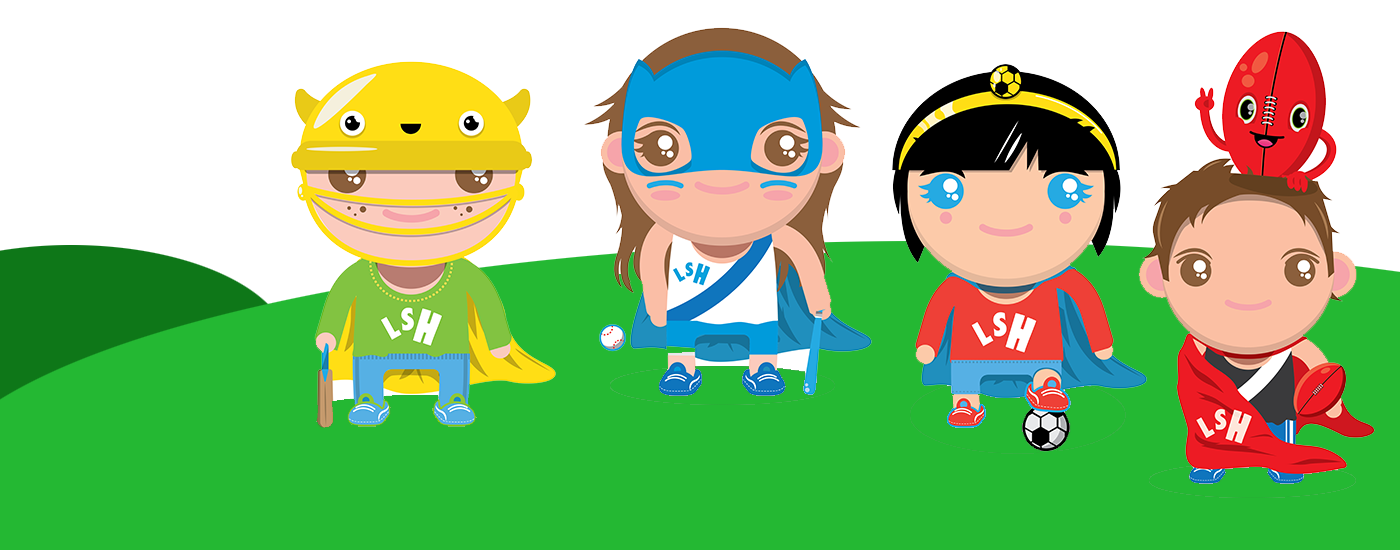
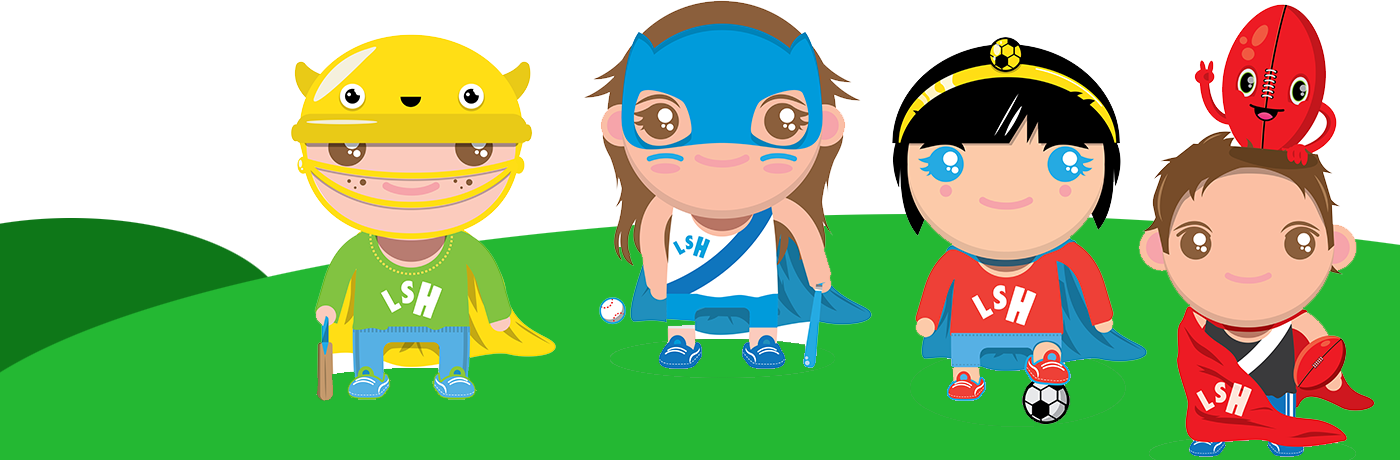
much better homepage design

Changed region(s): [[0.0, 0.0, 1.0, 1.0]]

diff --git a/assets/css/global.css b/assets/css/global.css
@@ -36,12 +36,8 @@ a.contact:hover {
 
 
 #outer {
-    /* Permalink - use to edit and share this gradient: http://colorzilla.com/gradient-editor/#0a3285+0,24c1f4+100 */
-    background: #0a3285; /* Old browsers */
-    background: -moz-linear-gradient(top,  #0a3285 0%, #24c1f4 100%); /* FF3.6-15 */
-    background: -webkit-linear-gradient(top,  #0a3285 0%,#24c1f4 100%); /* Chrome10-25,Safari5.1-6 */
-    background: linear-gradient(to bottom,  #0a3285 0%,#24c1f4 100%); /* W3C, IE10+, FF16+, Chrome26+, Opera12+, Safari7+ */
-    filter: progid:DXImageTransform.Microsoft.gradient( startColorstr='#0a3285', endColorstr='#24c1f4',GradientType=0 ); /* IE6-9 */
+
+
 }
 
 #wrapper {
@@ -63,6 +59,7 @@ a.contact:hover {
 
     font-family: "sofia-pro-soft";
     color: white;
+    background-color: #24b833;
 }
 
 .intro h1 {
@@ -77,6 +74,10 @@ a.contact:hover {
 .intro p {
     font-weight: 100;
     font-size: 200%;
+}
+
+.menu_wrap {
+    background-color: #24c1f4;
 }
 
 .menu {
@@ -116,12 +117,17 @@ a.contact:hover {
 }
 
 
-.footer {
+.kids {
     background-color: #24c1f4;
     /* background-image: url('/assets/img/bg/kids.png'); */
     background-size: contain;;
     margin: 0 auto;
     max-width: 1400px;
+}
+
+.footer {
+    background-color: #27ae60;
+    color: white;
 }
 
 @media (min-width:320px) {

diff --git a/index.php b/index.php
@@ -8,7 +8,7 @@
         <div id="outer">
         <div id="wrapper">
             <div class="intro">
-                <div class="pure-g">
+                <div class="pure-g menu_wrap">
                     <div class="pure-u-2-24 pure-u-md-1-24 pure-u-lg-2-24 spacer">
 
                     </div>
@@ -37,6 +37,9 @@
                             <i class="fa fa-bars fa-3x" aria-hidden="true"></i>
                     </div>
                 </div>
+                <div class="kids">
+                    <img class="pure-img" src="/assets/img/bg/kids.png" />
+                </div>
                 <div class="pure-g">
                     <div class="pure-u-2-24 spacer">
 
@@ -52,7 +55,7 @@
                             </p>
                         </div>
                         <div class="pure-g">
-                            
+
                             <div class="pure-u-1">
                                 <div class="l-box">
                                     <h1><a href="/services" class="services">Find out about all of our programs here!</a></h1>
@@ -86,11 +89,15 @@
                     </div>
                 </div>
             </div>
+            <div class="pure-u-1 footer">
+                <div class="l-box">
+                    <p>
+                        test
+                    </p>
+                </div>
+            </div>
+        </div>
+        </div>
 
-        </div>
-        </div>
-        <div class="footer">
-            <img class="pure-img" src="/assets/img/bg/kids.png" />
-        </div>
     </body>
 </html>
